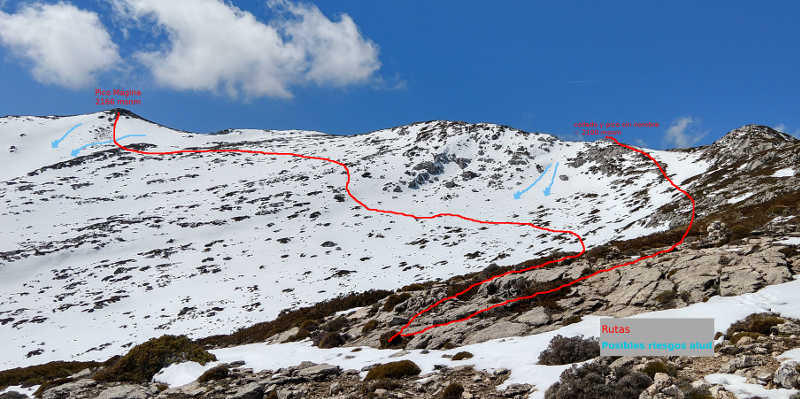
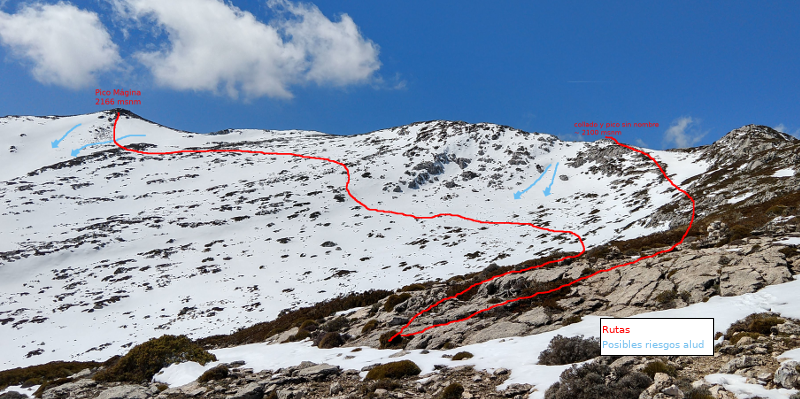
_posts/2018-04-02-magina-nieve.md: fixes
Fix some sentences, correct route image.

Changed region(s): [[0.75, 0.782, 0.9062, 0.9023]]

diff --git a/_posts/2018-04-02-magina-nieve.md b/_posts/2018-04-02-magina-nieve.md
@@ -49,10 +49,9 @@ extensión como en cantidad de nieve. Y efectivamente, la profundida es
 bastante. La nieve está muy húmeda, no tiene consistencia ninguna, y según
 donde se pise, la pierna se hunde hasta la rodilla. Las huellas que ya había
 nos ayudaban algo, pero en general el avance era un poco penoso. Además,
-nos damos cuenta de que esto no es ya un nevero, esque el sendero está
-completamente cubierno de nieve, y que ésta será la tónica durante el resto
-de la ascensión.
-
+nos damos cuenta de que eso no era ya un nevero, y es que el sendero y todo el
+monte estaba completamente cubierno de nieve, y que ésta será la tónica durante
+el resto de la jornada.
 
 ![Nevero][nevero]
 
@@ -66,25 +65,25 @@ tras una piedra.
 Los compañeros del refugio, cuando vuelven, nos comentan que se han encontrado
 allí con otros montañeros que han intentado la cima y que han desistido debido
 a la cantidad de nieve. En esta ocasión el aviso nos cala más profundo, porque
-ya hemos vivido por nosotros mismos lo complicado que resulta moverse con la
+ya hemos visto hoy por nosotros mismos lo complicado que resulta moverse con la
 nieve en este estado. Entablamos las primeras conversaciones sobre los
 objetivos del día y sobre la posibilidad de darnos la vuelta, como lo han hecho
 los demás grupos de montañeros. La verdad es que aún tenemos algo de ganas de
 montaña, y además nos ha parecido ver a alguien próximo a la cima del Mágina,
 así que decidimos hacer un intento. Vamos a avanzar un poco más. Evaluaremos
 un poco más adelante si continuar o no. Estábamos justo debajo de una
-señalización que indica 2km hasta la cima del Mágina, y somos plenamente
+señalización que indica 2km hasta la cima del Mágina, pero somos plenamente
 conscientes que 2km pueden hacerse muy largos con la montaña en esas
 condiciones.
 
 ![Cruce][cruce]
 
 Avanzamos por una primera parte preciosa, aristas llenas de nieve con vistas
-espectacurales de la sierr, que nos hacen sentir que estamos en otro país. ¡No,
+espectacurales de la sierra, que nos hacen sentir que estamos en otro país. ¡No,
 es Andalucía! :-) Desde la lejanía también observamos el resto del camino que
 nos falta, e intentando pensar con la cabeza fria, detectamos un par de sitios
 que podrían presentar cierto riesgo de aludes. No tenemos muchos conocimientos
-sobre nivología, pero una gran acumulación de nieve y una rampa inclinada suena
+sobre nivología, pero una gran acumulación de nieve y una rampa inclinada suenan
 como algo a tener en cuenta. Además, por cada paso que damos, la cantidad de
 nieve es mayor. En ciertas zonas, nos hundimos hasta la cintura.
 Un compañero mete la pierna tan profunda que tiene que auto desenterrarse el
@@ -103,7 +102,7 @@ cimas, llegar hasta el pico Mágina.
 
 ![Rutas][rutas]
 
-Decidido el intinerario, nos ponemos a subir. Resulta que esta cresta rocosa no
+Decidido el intinerario, apostamos por subir. Resulta que esta cresta rocosa no
 es más que una acumulación de peñascos, nieve y matorrales, que hacen nuestro
 avance quizás aún más penoso de lo que hubiera sido por la nieve. Así que a
 mitad de la cresta, nos paramos y volvemos a evaluar la situación. Aún podemos
@@ -146,7 +145,7 @@ Aunque en cierto momento, llegamos a la conclusión de que, efectivamente, un
 componente de nuestra expedición se había lesionado la rodilla y tenía
 problemas para descender a través de la nieve.
 En este momento, nuestro equipo de 3, más bajo, decidimos dividirnos.
-2 bajaramos a los coches para volver a subirlo por la pista forestal que
+2 bajaríamos a los coches para subirlo por la pista forestal que
 hay hasta el inicio del sendero, unos 3 o 4 km, caminata que le ahorraríamos
 a la compañera con problemas. El otro miembro se quedaría arriba para unirse
 a los 3 que bajan, de manera que pueda ayudar (física o moralmente) con el
@@ -169,7 +168,7 @@ Aquí, por cierto, el personal era bastante amable, pero las comodidades
 eran muy escuetas. Para la compañera lesionada, hacemos uso de la políza de
 seguro asociada a la licencia federativa de montaña, y le hacen una
 radiografía en un hospital privado de Jaen. No tiene ninguna lesión ósea, y
-en principio todo ha quedado en un susto: una fuerte consutión en la rodilla.
+en principio todo ha quedado en un susto: una fuerte contusión en la rodilla.
 
 <center>
 <iframe width="400" height="225"
@@ -186,7 +185,7 @@ pudo pasar factura a la compañera accidentada. Supongo que es por algo que la
 mayoría de accidentes en la montaña ocurren en los descensos, cuando el
 cansancio se añade a la ecuación.
 
-Supongo que volveremos al pico Mágina, pero me gustaría vivir otra experiencia
+Creo que volveremos al pico Mágina, pero me gustaría vivir otra experiencia
 más satisfactoria esta vez :-)
 
 Referencias:
